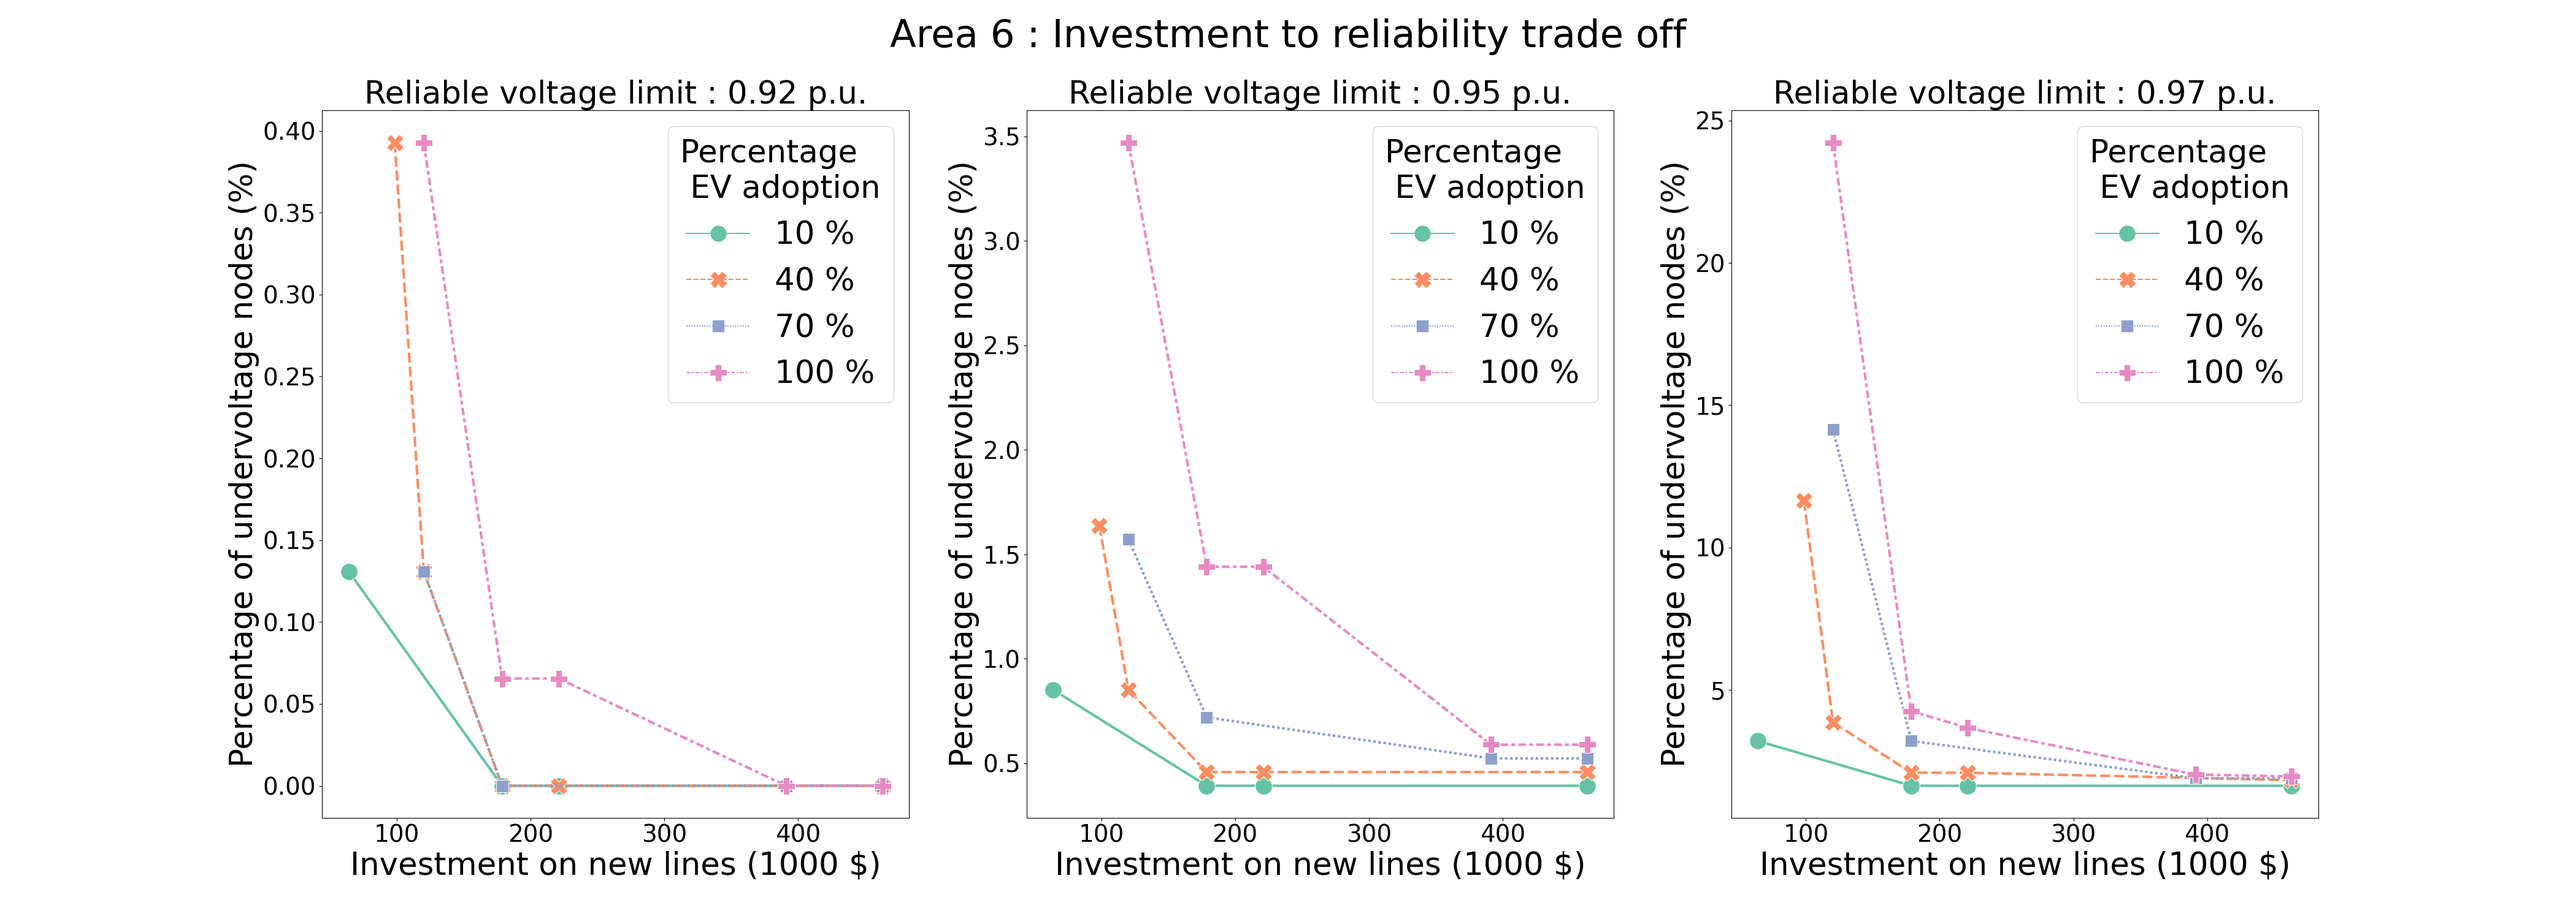
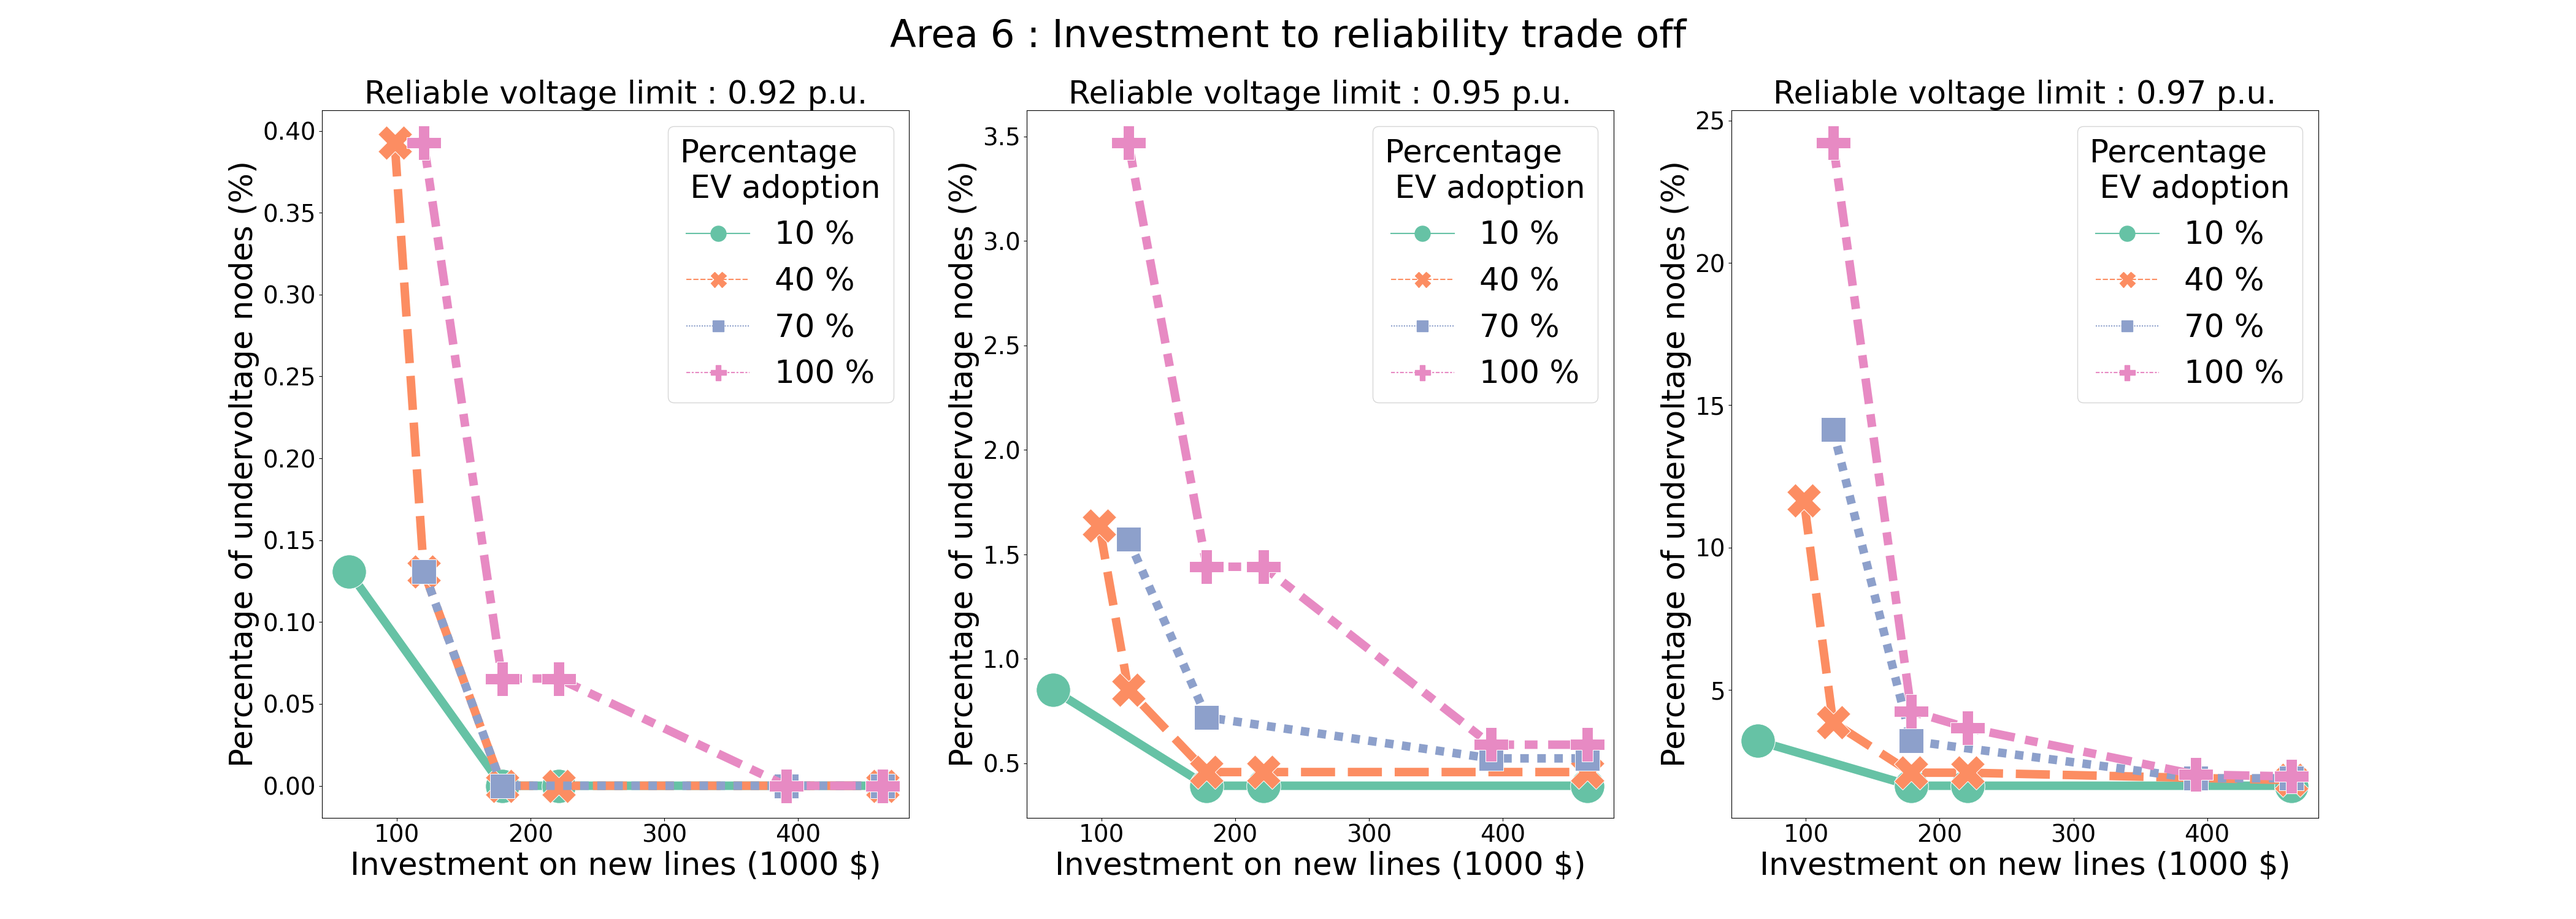
updated figs

diff --git a/plot-summary.py b/plot-summary.py
@@ -31,5 +31,5 @@ for area in arealist:
                     suptitle_sfx = "Investment to reliability trade off", 
                     to_file=f"{fx.area}-tradeoff", 
                     show=False, fontsize=37, tick_fontsize=28, 
-                    linewidth=3, markersize=20, 
+                    linewidth=10, markersize=40, 
                     adoptions=adopt)
